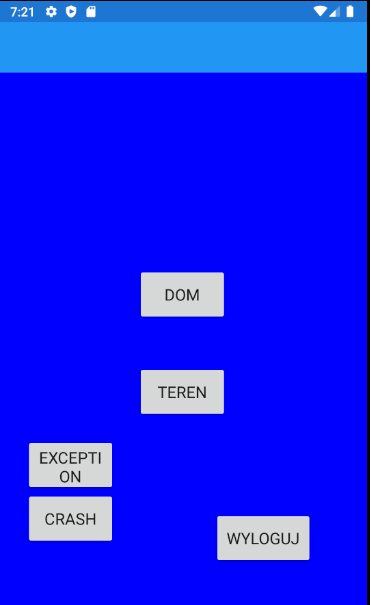
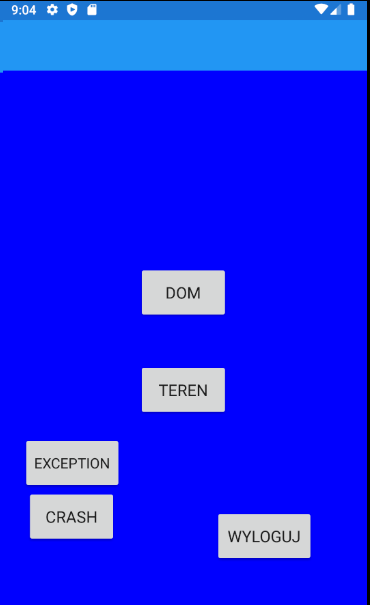
Poprawki

diff --git a/App2/App2/StronaNawigacyjna.xaml b/App2/App2/StronaNawigacyjna.xaml
@@ -24,8 +24,8 @@
 
 
         <Button Text="Exception" Clicked="Exception_Button"
-                AbsoluteLayout.LayoutBounds="0.1, 0.75, 100, 60" AbsoluteLayout.LayoutFlags="PositionProportional"
-                FontSize="Medium"/>
+                AbsoluteLayout.LayoutBounds="0.09, 0.75, 110, 60" AbsoluteLayout.LayoutFlags="PositionProportional"
+                FontSize="Subtitle"/>
         
         <Button Text="Crash" Clicked="Crash_Button"
                 AbsoluteLayout.LayoutBounds="0.1, 0.86, 100, 60" AbsoluteLayout.LayoutFlags="PositionProportional"
